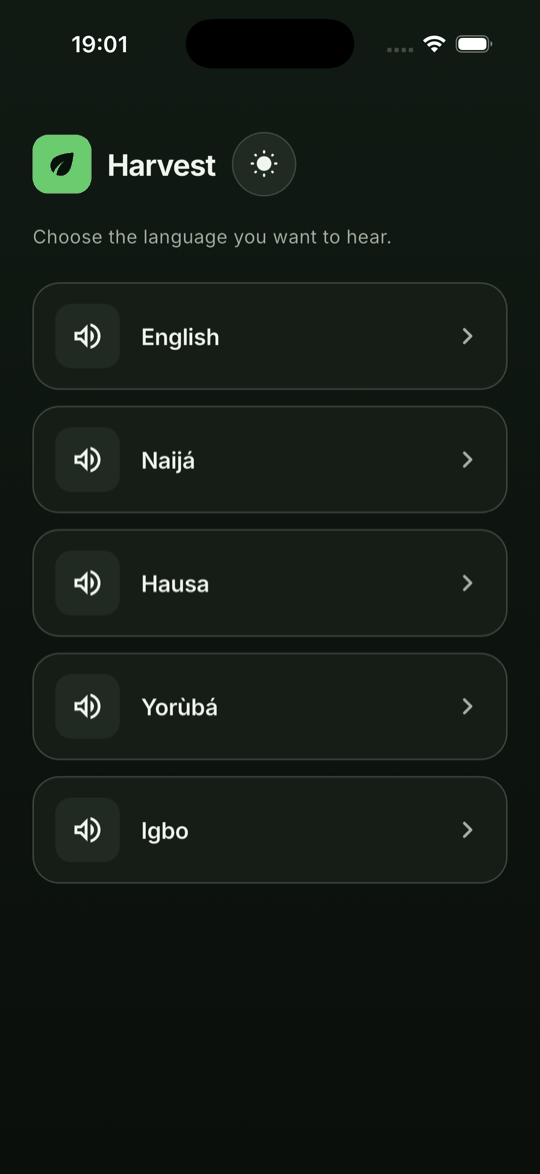
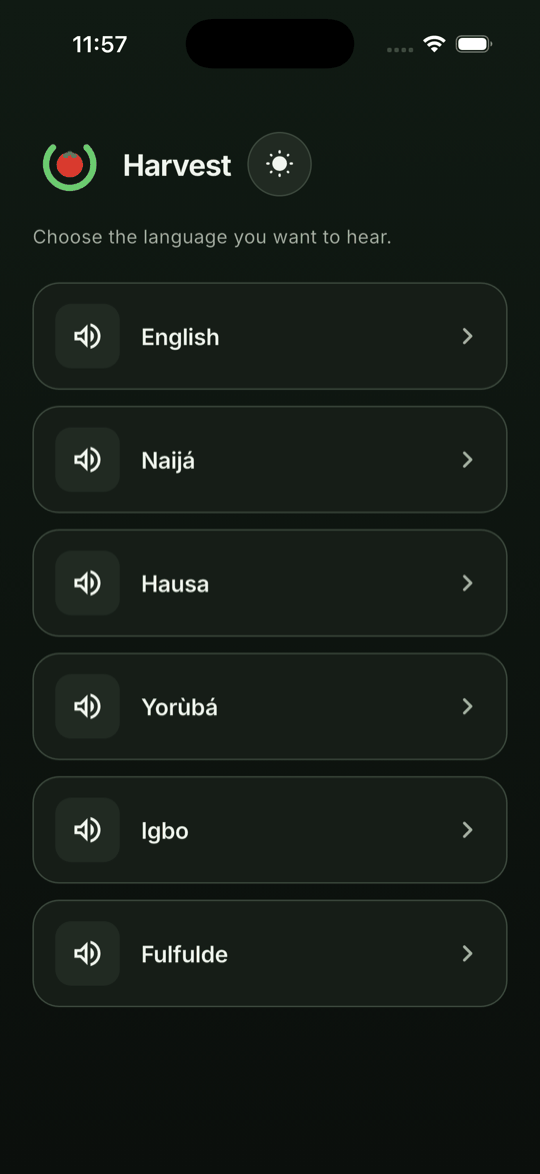
Retake the three screenshots whose screens had moved, and leave the nineteen that had not

diff --git a/docs/JOURNAL.md b/docs/JOURNAL.md
@@ -3774,3 +3774,58 @@ different thing than the one that mattered — and the second where a *placehold
 being honest about itself* was what concealed the gap beside it. A stand-in that
 announces what it does not do is still a stand-in for one thing, and the thing
 next to it can be missing entirely.
+
+
+## 2026-09-09 (later still) — Which screenshots were actually stale
+
+`doc-check` warns that the screenshots are *N commits of `app/lib` behind*,
+which is a heuristic about the whole directory and says nothing about which
+picture is wrong. Retaking all twenty-two by hand is hours of driving a
+simulator into twenty-two states; retaking none is how a README ends up
+describing an app that no longer exists.
+
+So the question was made answerable instead: for each screenshot, its own last
+commit against the last change to the screen it shows. Three failed that test
+and nineteen passed.
+
+  * **01-language** — five languages and the old leaf mark, taken before
+    Fulfulde landed. Its alt text in the README has said *six languages* the
+    whole time, so the caption and the picture had been contradicting each other
+    for a day.
+  * **06-daylight** — taken before the home screen gained the inbox button and
+    the *How often is this right?* row.
+  * **12-storage-offer** — taken before the decision screen gained three of its
+    six actions.
+
+And the interesting negatives. **13-diagnosis** is the oldest file in the set and
+looked like the obvious suspect; the only change to that screen since was moving
+a `Flexible` from the title into `BackButtonRow`, which renders identically. It
+was left alone. **20-thread** and **18-inbox** both had their source changed
+yesterday, by the message-kind fix and the expired-status fix — but neither
+screenshot shows the states those touch, so both are still true.
+
+Guessing would have retaken 13-diagnosis and skipped 06-daylight. The date is
+not the question; *what changed in the screen this picture is of* is.
+
+### And the app said "orices"
+
+Reading the retaken `12-storage-offer` at full size: **Based on orices from just
+now.** The source string says `prices`. The tail of the *p* and the tail of the
+*j* are cut flat at the same y — a clip, not a typo, and not the downscale: it
+is in the raw 1206x2622 simulator capture.
+
+Measured rather than assumed: the lowest amber pixel is y=1828 and the card's
+bottom border is y=1884, so there are fifty-six pixels of clear space below the
+cut. The card is not the clipper. What is at exactly that line is `Pressable`,
+which wraps its child in a `Material` with `clipBehavior: Clip.antiAlias` whose
+box is the text's own height — so a descender painting below the last line box
+is cut off. `Pressable` is used in seventeen files.
+
+Not fixed here. `Clip.none` is the obvious try and the obvious risk — the clip
+is what keeps the ink splash inside the rounded corner — and the one experiment
+I ran proved nothing, because reinstalling the build to test it wiped the
+database and took the screen with it. It is written down with the measurement
+rather than guessed at.
+
+Which is the sixth thing this week that only running the product showed, and the
+first that only *looking closely at a picture of it* showed.

diff --git a/CHANGELOG.md b/CHANGELOG.md
@@ -403,6 +403,17 @@ Entries say *why*, not just what.
 
 ### Changed
 
+- **Three README screenshots retaken.** `01-language` showed five languages and
+  the abandoned leaf mark, while its own alt text said six; `06-daylight`
+  predated the inbox button and the calibration row; `12-storage-offer`
+  predated three of the decision screen's actions. Which three was **derived**
+  rather than guessed — each screenshot's last commit against the last change
+  to the screen it shows — and the rest were checked the same way and left
+  alone, including `13-diagnosis`, whose only change since was moving a
+  `Flexible`.
+- The iOS `Podfile.lock` drops `flutter_timezone` and picks up
+  `flutter_secure_storage`.
+
 - **`flutter_timezone` is gone, and the alerts are unchanged.** It applied the
   Kotlin Gradle Plugin, which future Flutter versions refuse to build, and
   5.1.0 is the last release — so there was nothing to upgrade to. It had one
